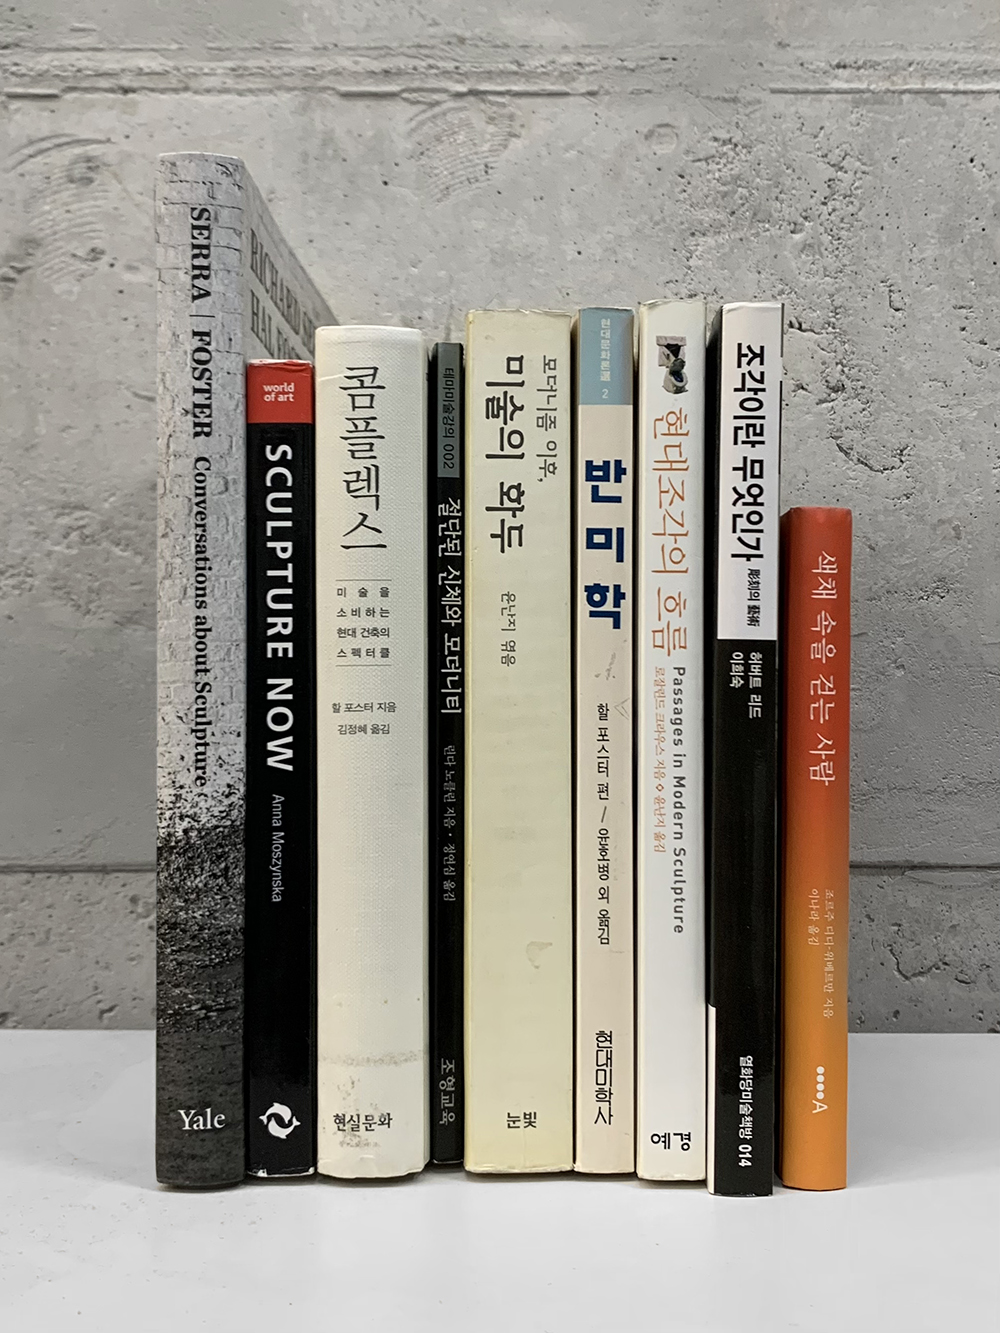
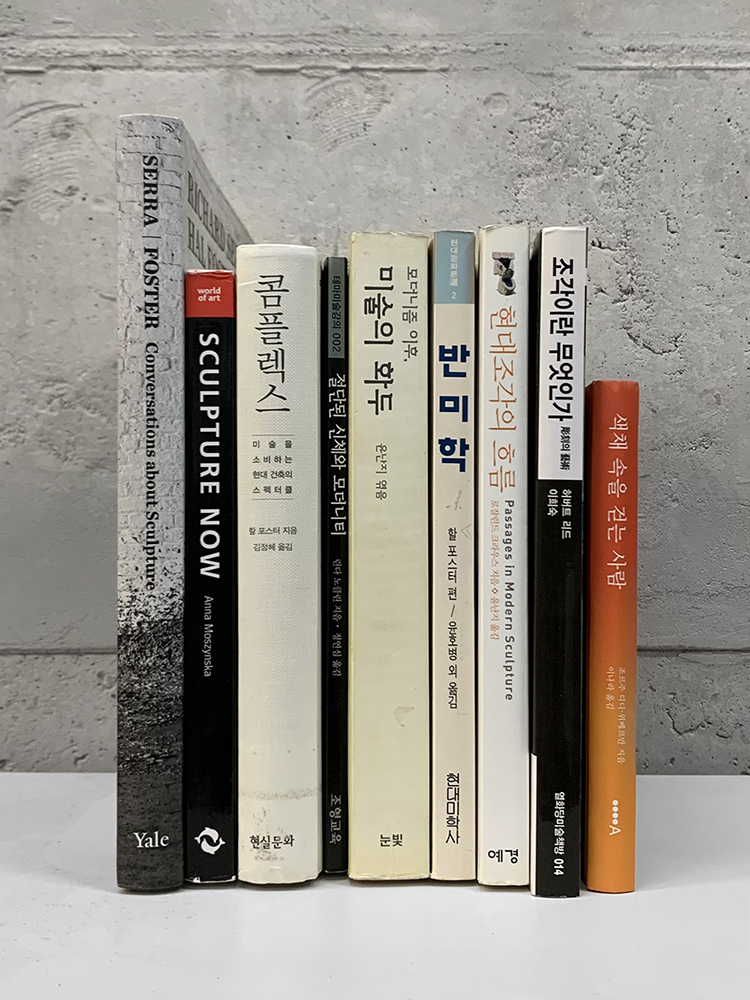
Add files via upload

diff --git a/sculpturelibrary/style.css b/sculpturelibrary/style.css
@@ -294,7 +294,7 @@ li {
   background-color: rgba(255, 255, 255, 0.3); /* 반투명 배경 필요 */
   backdrop-filter: blur(10px);
   -webkit-backdrop-filter: blur(10px);
-  box-shadow: -1px -1px 5px 1px lightgray;
+  box-shadow: -3px -3px 5px 2px #EBEBEB;
 }
 
 .close {
@@ -467,6 +467,10 @@ footer a {
 
   .kr li:nth-child(1) {
     margin-left: -3px;
+  }
+
+  .popup {
+    box-shadow: 0px 0px 0px 0px #EBEBEB;
   }
 
   footer {
